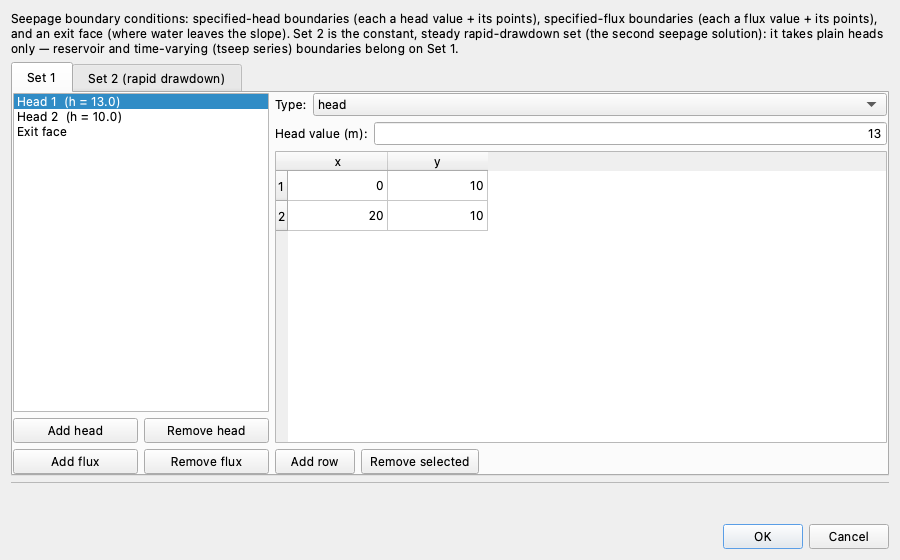
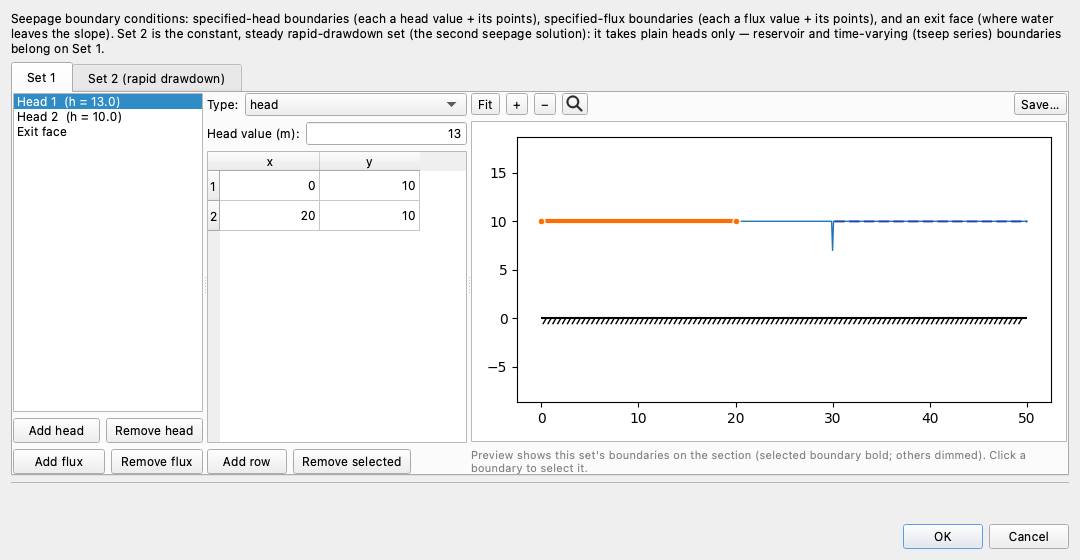
ui(studio): the Seep BC editor gains the section preview the other editors carry
The dialog was the one editor without a live preview: a list, a value field
stretched across the leftover width, and nothing showing where the boundaries
actually sit. Now the value/points column keeps a fixed narrow share and the
rest of the width is the shared PreviewPane — every boundary in the set drawn
over the section in the main canvas's hue families (set-1 head navy, reservoir
azure, flux green, exit face red; set 2 rose/seagreen/orangered), the selected
one bold with its points marked, and a click on a boundary selecting its list
row. The preview reads the pending state, so point edits and type changes
redraw debounced; each tab shows its own set at first display size.

The three screenshots regenerate through their producers — the two tutorial
shots at the new dialog width, and the editing-page shot through a NEW producer
in capture_studio_screenshots.py (it previously had none): the earth dam's set
with a demonstration infiltration flux across the crest selected. SEEP-1,
SEEP-2, and the Studio editing page now describe the preview; docs_links stays
green end to end.

Claude-Session: https://claude.ai/code/session_01XjjT2aBxw8gY7EFdpoUcpj

diff --git a/studio/editors.py b/studio/editors.py
@@ -1464,6 +1464,44 @@ def _draw_line_loads_preview(ax, rows, selected, slope_data, style):
     _finish_preview_axes(ax)
 
 
+def _draw_seep_bc_preview(ax, entries, selected, slope_data, style, set_no=1):
+    """Preview for the seep BC editor: the base geometry with every boundary in the
+    set drawn as its polyline — the selected entry bold (emphasis color) with point
+    markers, the others dimmed in the same hue families the main canvas uses (set-1
+    head navy / reservoir azure / flux green / exit face red; set 2 rose / seagreen /
+    orangered). ``entries`` mirrors the widget's list order (heads … fluxes … exit
+    face) as dicts with 'kind' and 'coords'."""
+    from xslope.plot import _SEEP_BC_RESERVOIR, _SEEP_BC_SET2_HEAD
+    from xslope.style import resolve_style, feature_style
+    rstyle = resolve_style(style)
+    _draw_section_context(ax, slope_data, rstyle)
+    if int(set_no) == 1:
+        colors = {"head": feature_style(rstyle, "seep_bc").get("color", "darkblue"),
+                  "reservoir": _SEEP_BC_RESERVOIR[0],
+                  "flux": feature_style(rstyle, "seep_flux").get("color", "darkgreen"),
+                  "exit": feature_style(rstyle, "seep_exit_face").get("color", "red")}
+    else:
+        colors = {"head": _SEEP_BC_SET2_HEAD[0], "reservoir": _SEEP_BC_SET2_HEAD[0],
+                  "flux": "seagreen", "exit": "orangered"}
+    styles = {"head": "--", "reservoir": "--", "flux": "-.", "exit": "--"}
+    for i, e in enumerate(entries):
+        coords = [c for c in (e.get("coords") or []) if c is not None]
+        if not coords:
+            continue
+        xs = [c[0] for c in coords]
+        ys = [c[1] for c in coords]
+        kind = str(e.get("kind") or "head").strip().lower()
+        if i == selected:
+            ax.plot(xs, ys, color=_PREVIEW_EMPH, linewidth=_PREVIEW_EMPH_LW,
+                    marker="o", markersize=5, markerfacecolor=_PREVIEW_EMPH,
+                    markeredgecolor="white", zorder=20)
+        else:
+            ax.plot(xs, ys, color=colors.get(kind, "darkblue"),
+                    linestyle=styles.get(kind, "--"), linewidth=2.0,
+                    alpha=_PREVIEW_DIM_ALPHA, zorder=6)
+    _finish_preview_axes(ax)
+
+
 _NCPT_MARKER = {"Fixed": "s", "Horiz": "D", "Free": "o"}   # per movement type
 
 
@@ -4894,13 +4932,19 @@ XY_FIELDS = [Field("x", "x"), Field("y", "y")]
 class _SeepBcSetWidget(QWidget):
     """One seepage BC set as a single master/detail: the left list holds each
     specified-head boundary, each specified-flux boundary, AND the exit face; the
-    right side shows one full-height point table plus a value field — "Head value:"
-    for heads, "Flux value:" for fluxes, both hidden for the exit face.
+    middle column shows one full-height point table plus a value field — "Head
+    value:" for heads, "Flux value:" for fluxes, both hidden for the exit face.
 
     List order is heads … fluxes … exit face; picking.py mirrors this so a canvas
-    double-click jumps to the right row."""
+    double-click jumps to the right row.
 
-    def __init__(self, bc, parent=None, unit_labels=None, constant_only=False):
+    With ``slope_data`` the right side is a live section preview (the shared
+    ``PreviewPane``) with the selected boundary emphasized; a click on a boundary in
+    it selects the corresponding list row. The value/points column keeps a fixed
+    narrow width — the points table is only x/y — and the preview absorbs the rest."""
+
+    def __init__(self, bc, parent=None, unit_labels=None, constant_only=False,
+                 slope_data=None, style=None, set_no=1):
         super().__init__(parent)
         bc = bc or {}
         self._unit_labels = unit_labels
@@ -4927,10 +4971,9 @@ class _SeepBcSetWidget(QWidget):
         self._help_strip = None
         self._field_help = None
 
-        body = QHBoxLayout(self)
-        body.setContentsMargins(0, 0, 0, 0)
-        left = QVBoxLayout()
-        body.addLayout(left)
+        left_pane = QWidget()
+        left = QVBoxLayout(left_pane)
+        left.setContentsMargins(0, 0, 0, 0)
         self.list = QListWidget()
         self.list.currentRowChanged.connect(self._on_select)
         left.addWidget(self.list)
@@ -4962,8 +5005,9 @@ class _SeepBcSetWidget(QWidget):
             if unit_labels.get("k"):
                 flux_text = f"Flux value ({unit_labels['k']}):"
 
-        right = QVBoxLayout()
-        body.addLayout(right, 1)
+        mid_pane = QWidget()
+        right = QVBoxLayout(mid_pane)
+        right.setContentsMargins(0, 0, 0, 0)
         # Head TYPE selector (plain Dirichlet head vs submerged-only reservoir).
         # Shown only for head rows; fluxes and the exit face hide it.
         trow = QHBoxLayout()
@@ -5006,8 +5050,40 @@ class _SeepBcSetWidget(QWidget):
         self._holder = QVBoxLayout()
         right.addLayout(self._holder, 1)
 
+        body = QHBoxLayout(self)
+        body.setContentsMargins(0, 0, 0, 0)
+        self._preview = None
+        if slope_data is not None:
+            from .canvas import PreviewPane
+            self._preview = PreviewPane(
+                lambda ax: _draw_seep_bc_preview(
+                    ax, self._pending_entries(), self.list.currentRow(),
+                    slope_data, style, set_no),
+                caption="Preview shows this set's boundaries on the section "
+                        "(selected boundary bold; others dimmed). Click a boundary "
+                        "to select it.")
+            self._preview.clicked.connect(self._on_preview_click)
+            # A type change recolors the selected boundary's family in the preview.
+            self.type_combo.currentIndexChanged.connect(self._schedule_preview)
+            splitter = QSplitter(Qt.Horizontal)
+            splitter.addWidget(left_pane)
+            splitter.addWidget(mid_pane)
+            splitter.addWidget(self._preview)
+            # The value/points column is just a value field over an x/y table, so it
+            # keeps a fixed narrow share; dragging the dialog wider grows the preview.
+            splitter.setStretchFactor(0, 0)
+            splitter.setStretchFactor(1, 0)
+            splitter.setStretchFactor(2, 1)
+            splitter.setSizes([190, 260, 560])
+            body.addWidget(splitter)
+        else:
+            body.addWidget(left_pane)
+            body.addWidget(mid_pane, 1)
+
         self._refresh()
         self.list.setCurrentRow(0)
+        if self._preview is not None:
+            self._preview.refresh_now()
 
     # Index scheme: heads occupy [0, n_heads); fluxes [n_heads, n_heads+n_flux);
     # the exit face is the single trailing row.
@@ -5088,7 +5164,8 @@ class _SeepBcSetWidget(QWidget):
             rows = [{"x": x, "y": y} for (x, y) in f["coords"]]
         else:  # exit face
             rows = [{"x": x, "y": y} for (x, y) in self._exit]
-        self.table = _EditableTable(XY_FIELDS, rows, _new_pt)
+        self.table = _EditableTable(XY_FIELDS, rows, _new_pt,
+                                    on_change=self._schedule_preview)
         self._holder.addWidget(self.table)
         self._wire_help()
 
@@ -5112,6 +5189,39 @@ class _SeepBcSetWidget(QWidget):
         self._commit()
         self._cur = idx
         self._load(idx)
+        self._schedule_preview()
+
+    # --- live preview -----------------------------------------------------
+    def _schedule_preview(self, *_):
+        if self._preview is not None:
+            self._preview.schedule()
+
+    def _pending_entries(self):
+        """The set's boundaries in list order (heads … fluxes … exit face) with the
+        current selection's pending edits committed — what the preview draws."""
+        self._commit()
+        return ([{"kind": h.get("kind", "head"), "coords": h["coords"]}
+                 for h in self._heads]
+                + [{"kind": "flux", "coords": f["coords"]} for f in self._fluxes]
+                + [{"kind": "exit", "coords": self._exit}])
+
+    def _on_preview_click(self, x, y, tol):
+        """Select the boundary nearest the preview click (within tolerance)."""
+        from shapely.geometry import LineString, Point
+        pt = Point(x, y)
+        best, best_d = None, float("inf")
+        for i, e in enumerate(self._pending_entries()):
+            coords = [c for c in (e["coords"] or []) if c is not None]
+            try:
+                d = (LineString(coords).distance(pt) if len(coords) >= 2
+                     else Point(coords[0]).distance(pt) if coords
+                     else float("inf"))
+            except Exception:
+                continue
+            if d < best_d:
+                best, best_d = i, d
+        if best is not None and best_d <= tol:
+            self.list.setCurrentRow(best)
 
     def _add_head(self):
         self._commit()
@@ -5172,7 +5282,7 @@ class SeepBcEditor(CategoryEditor):
     def build(self, slope_data, parent, select=None):
         dlg = QDialog(parent)
         dlg.setWindowTitle("Seep BC")
-        dlg.resize(640, 520)
+        dlg.resize(1080, 560)
         layout = QVBoxLayout(dlg)
         layout.addWidget(_help_label(
             "Seepage boundary conditions: specified-head boundaries (each a head value + "
@@ -5182,11 +5292,18 @@ class SeepBcEditor(CategoryEditor):
             "— reservoir and time-varying (tseep series) boundaries belong on Set 1."))
         tabs = QTabWidget()
         _ul = _unit_labels_for(slope_data)
-        w1 = _SeepBcSetWidget(slope_data.get("seepage_bc"), unit_labels=_ul)
+        _style = _doc_style(parent)
+        w1 = _SeepBcSetWidget(slope_data.get("seepage_bc"), unit_labels=_ul,
+                              slope_data=slope_data, style=_style, set_no=1)
         w2 = _SeepBcSetWidget(slope_data.get("seepage_bc2"), unit_labels=_ul,
-                              constant_only=True)
+                              constant_only=True,
+                              slope_data=slope_data, style=_style, set_no=2)
         tabs.addTab(w1, "Set 1")
         tabs.addTab(w2, "Set 2 (rapid drawdown)")
+        # A tab shown for the first time renders its preview at the real viewport
+        # size (the hidden tab's first paint happened at zero size).
+        tabs.currentChanged.connect(
+            lambda i: (w1, w2)[i]._schedule_preview() if i in (0, 1) else None)
         layout.addWidget(tabs)
         _ok_cancel(dlg, layout)
 

diff --git a/tools/capture_studio_screenshots.py b/tools/capture_studio_screenshots.py
@@ -642,6 +642,26 @@ def capture_piles_table():
                  "editing_piles_table.png")
 
 
+def capture_seep_bc_editor():
+    """Seep BC editor on the earth dam's boundary set, with a demonstration
+    infiltration flux added across the crest (the no-flow strip between the pool
+    head and the exit face) and selected — so the shot shows the flux value field,
+    its points, and the preview's emphasis on the selected boundary."""
+    from xslope.fileio import load_slope_data
+    from studio.editors import SeepBcEditor
+
+    data = _quiet(load_slope_data, DAM)
+    bc = data["seepage_bc"]
+    x0 = max(x for x, _ in bc["specified_heads"][0]["coords"])
+    x1 = min(x for x, _ in bc["exit_face"])
+    crest = [(x, y) for x, y in data["ground_surface"].coords if x0 <= x <= x1]
+    bc["specified_fluxes"] = [{"flux": 1.5, "coords": crest}]
+    dlg = SeepBcEditor().build(data, None,
+                               select=(0, len(bc["specified_heads"])))
+    dlg.resize(1080, 560)
+    return _grab(dlg, "editing_seep_bc_editor.png")
+
+
 def capture_global_form():
     """The Global parameters form: the Units / Time / Tension SRF selectors above
     the numeric fields, on a sample that declares a unit system (so the unit-weight
@@ -894,6 +914,7 @@ def main():
                capture_report_dialog,
                capture_reinforcement_editor, capture_reinforcement_table,
                capture_piles_editor, capture_piles_table,
+               capture_seep_bc_editor,
                capture_dxf_wizard, capture_global_form,
                capture_assistant_settings, capture_assistant_confirm,
                capture_inputs_tree, capture_display_panel_seep,

diff --git a/tools/capture_tutorial_screenshots.py b/tools/capture_tutorial_screenshots.py
@@ -1589,7 +1589,7 @@ def seep01_seep_bc():
     from studio.editors import SeepBcEditor
 
     dlg = SeepBcEditor().build(_load(SEEP01), None, select=(0, 0))
-    dlg.resize(900, 560)
+    dlg.resize(1080, 560)
     return _grab(dlg, "seep01_studio_seep_bc.png")
 
 
@@ -1729,7 +1729,7 @@ def seep02_seep_bc():
     from studio.editors import SeepBcEditor
 
     dlg = SeepBcEditor().build(_load(SEEP02), None, select=(0, 2))
-    dlg.resize(900, 560)
+    dlg.resize(1080, 560)
     return _grab(dlg, "seep02_studio_seep_bc.png")
 
 

diff --git a/docs/tutorials/seep01_sheetpile.md b/docs/tutorials/seep01_sheetpile.md
@@ -446,8 +446,10 @@ Click **OK**.
 
 Click **Seep BC**. The editor opens on **Set 1**, with a list on the left holding
 every boundary in the set — each specified-head block, each flux block, and the
-exit face — and the selected one's value and points on the right. (**Set 2** is
-the second boundary set a rapid drawdown analysis uses; it stays empty here.)
+exit face — and the selected one's value and points beside it. The preview on the
+right draws every boundary over the section with the selected one highlighted;
+clicking a boundary in the preview selects it in the list. (**Set 2** is the
+second boundary set a rapid drawdown analysis uses; it stays empty here.)
 
 Press **Add head**, and fill the upstream boundary:
 

diff --git a/docs/tutorials/seep02_johnson_dam.md b/docs/tutorials/seep02_johnson_dam.md
@@ -227,8 +227,9 @@ because the model this file selects does not read them.
 
 Open **Seep BC**. The editor opens on **Set 1**. Every boundary in the set is
 listed on the left, and a specified-head entry carries its head value in the list
-entry itself; the table on the right holds the selected entry's points and nothing
-else. This model has three entries:
+entry itself; the table beside the list holds the selected entry's points, and
+the preview on the right highlights the selected boundary on the section. This
+model has three entries:
 
 | Entry | Type | Value (ft) | Points |
 |---|---|:---:|---|

diff --git a/docs/studio/editing.md b/docs/studio/editing.md
@@ -245,7 +245,8 @@ you need; the table is there for the exceptions:
 **Seep BC** is a master/detail editor over the two BC sets (Set 2 drives rapid
 drawdown): specified-**head** lines (a head value plus its points),
 specified-**flux** lines (**Add flux**, a **Flux value** plus its points), and
-the **exit face**:
+the **exit face**. The preview draws every boundary in the set over the section
+with the selected one highlighted, and clicking a boundary there selects it:
 
 ![Seep BC editor](images/editing_seep_bc_editor.png)
 
